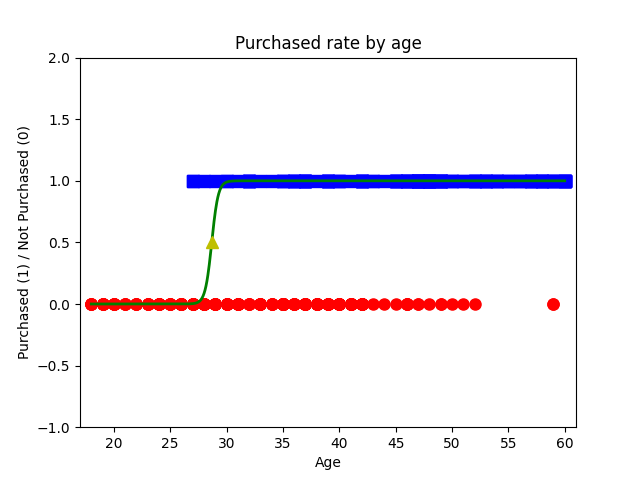
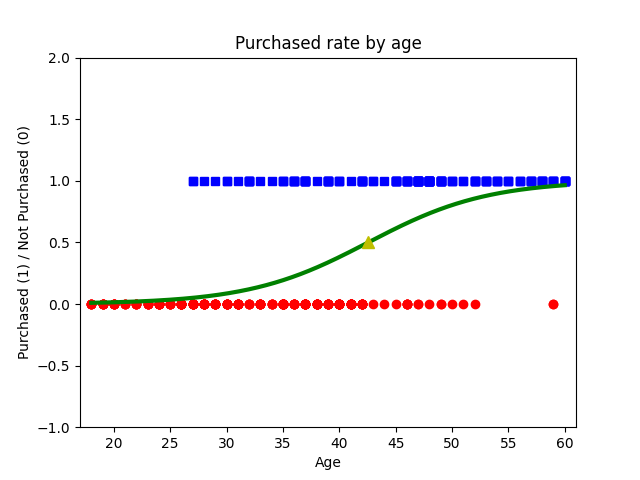
Fixed

diff --git a/MachineLearning/Buoi2/Logistic.py b/MachineLearning/Buoi2/Logistic.py
@@ -1,75 +1,39 @@
-from __future__ import division, print_function, unicode_literals
 import pandas as pd
 import numpy as np
 import matplotlib.pyplot as plt
-import time
+from sklearn import linear_model
+from scipy.special import expit
 
 np.random.seed(2)
 
 data = pd.read_csv("data_Logistic.csv")
 
-X = np.array([data['Age']])
+X = np.array(data['Age']).reshape(len(data['Age']), 1)
 y = np.array(data['Purchased'])
 
-# extended data
-X = np.concatenate((np.ones((1, X.shape[1])), X), axis=0)
+clf = linear_model.LogisticRegression(C=1e5).fit(X, y)
+print('Accuracy =', clf.score(X, y))
 
+X0 = y0 = X1 = y1 = np.array([])
 
-def sigmoid(s):
-    return 1 / (1 + np.exp(-s))
+for i in range(len(X)):
+    if y[i] == 0:
+        X0 = np.append(X0, X[i])
+        y0 = np.append(y0, 0)
+    else:
+        X1 = np.append(X1, X[i])
+        y1 = np.append(y1, 1)
 
+plt.plot(X0, y0, 'ro', markersize=6)
+plt.plot(X1, y1, 'bs', markersize=6)
 
-def logistic_sigmoid_regression(X, y, w_init, eta, tol=1e-4, max_count=100000):
-    w = [w_init]
-    N = X.shape[1]
-    d = X.shape[0]
-    count = 0
-    check_w_after = 20
-    while count < max_count:
-        # mix data
-        mix_id = np.random.permutation(N)
-        for i in mix_id:
-            xi = X[:, i].reshape(d, 1)
-            yi = y[i]
-            zi = sigmoid(np.dot(w[-1].T, xi))
-            w_new = w[-1] + eta * (yi - zi) * xi
-            count += 1
-            # stopping criteria
-            if count % check_w_after == 0:
-                if np.linalg.norm(w_new - w[-check_w_after]) < tol:
-                    return w
-            if count % 1000 == 0:
-                epoch_time = int(time.time())
-                print('w = {}, Time: {}'.format(w[-1], epoch_time))
-            w.append(w_new)
-    return w
+X_test = np.linspace(18, 60, 1000)
+threshold = -clf.intercept_/clf.coef_
 
+loss = expit(X_test * clf.coef_ + clf.intercept_).ravel()
+plt.plot(X_test, loss, color="green", linewidth=3)
 
-eta = .05
-d = X.shape[0]
-w_init = np.random.randn(d, 1)
-
-w = logistic_sigmoid_regression(X, y, w_init, eta)
-print(w[-1])
-
-X0 = X[1, np.where(y == 0)][0]
-y0 = y[np.where(y == 0)]
-X1 = X[1, np.where(y == 1)][0]
-y1 = y[np.where(y == 1)]
-
-plt.plot(X0, y0, 'ro', markersize=8)
-plt.plot(X1, y1, 'bs', markersize=8)
-
-start = min(X[1])
-end = max(X[1])
-
-xx = np.linspace(start, end, 1000)
-w0 = w[-1][0][0]
-w1 = w[-1][1][0]
-threshold = -w0 / w1
-yy = sigmoid(w0 + w1 * xx)
-plt.axis([start-1, end+1, -1, 2])
-plt.plot(xx, yy, 'g-', linewidth=2)
+plt.axis([18-1, 60+1, -1, 2])
 plt.plot(threshold, .5, 'y^', markersize=8)
 plt.title('Purchased rate by age')
 plt.xlabel('Age')
